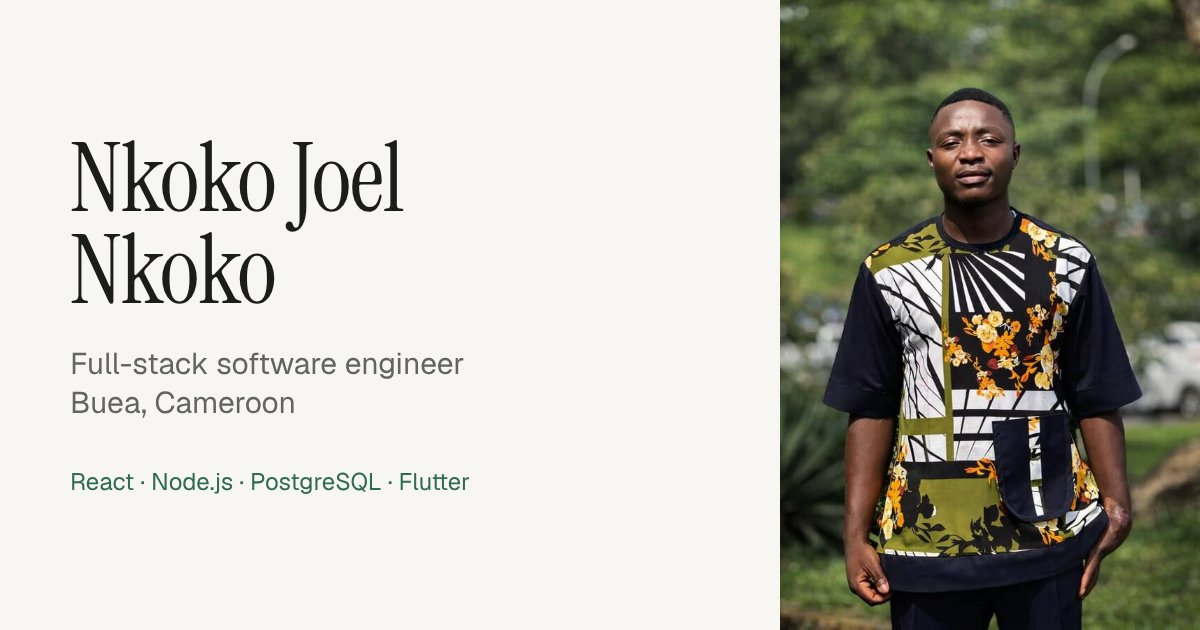
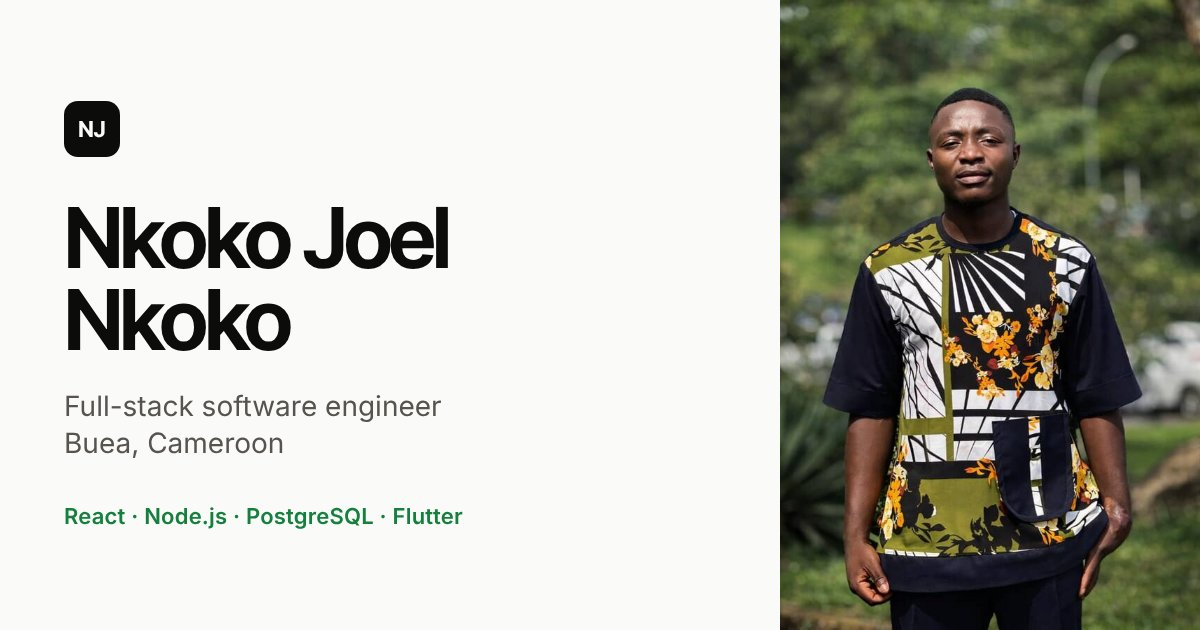
Restyle with Inter Tight and Inter for a modern professional look
- Bold, tight Inter Tight headings with Inter body text
- Neutral high-contrast colours in light and dark mode
- NJ monogram in the header, favicon and app icon
- Highlights row under the introduction (from the CV)
- Regenerated link-preview image in the new style

Claude-Session: https://claude.ai/code/session_01DLTudfJjVnqzGZH3kgXUeJ

Changed region(s): [[0.0308, 0.1508, 0.4008, 0.6635], [0.0308, 0.754, 0.4008, 0.8444], [0.0308, 0.6937, 0.2467, 0.7238]]

diff --git a/frontend/src/components/Header.tsx b/frontend/src/components/Header.tsx
@@ -40,9 +40,15 @@ export function Header() {
       }`}
     >
       <div className="mx-auto flex h-16 max-w-6xl items-center justify-between px-5 sm:px-8">
-        <a href="#top" className="font-serif text-2xl tracking-tight" onClick={() => setOpen(false)}>
-          {profile.shortName}
-          <span className="text-accent">.</span>
+        <a
+          href="#top"
+          className="flex items-center gap-2.5 font-display text-[15px] font-semibold tracking-tight"
+          onClick={() => setOpen(false)}
+        >
+          <span aria-hidden className="grid size-8 place-items-center rounded-lg bg-ink text-xs font-bold text-bg">
+            NJ
+          </span>
+          {profile.name}
         </a>
 
         <nav aria-label="Main" className="hidden items-center gap-1 md:flex">
@@ -51,7 +57,7 @@ export function Header() {
               key={l.id}
               href={`#${l.id}`}
               aria-current={active === l.id ? "true" : undefined}
-              className={`rounded-full px-4 py-2 text-sm transition-colors hover:text-ink ${
+              className={`rounded-full px-4 py-2 text-sm font-medium transition-colors hover:text-ink ${
                 active === l.id ? "text-ink" : "text-muted"
               }`}
             >
@@ -99,7 +105,7 @@ export function Header() {
                 <a
                   href={`#${l.id}`}
                   onClick={() => setOpen(false)}
-                  className="block border-b border-line py-4 font-serif text-3xl"
+                  className="block border-b border-line py-4 font-display text-2xl font-semibold tracking-tight"
                 >
                   {l.label}
                 </a>

diff --git a/frontend/src/index.css b/frontend/src/index.css
@@ -4,26 +4,26 @@
 
 /* Colours are CSS variables so light and dark mode swap in one place. */
 :root {
-  --bg: #f7f6f2;
+  --bg: #fafaf9;
   --surface: #ffffff;
-  --ink: #1b1d1a;
-  --muted: #62655f;
-  --line: #e3e1da;
-  --accent: #2f6b4f;
+  --ink: #0c0c0b;
+  --muted: #57534e;
+  --line: #e7e5e4;
+  --accent: #15803d;
   --accent-ink: #ffffff;
-  --accent-soft: #e4efe8;
+  --accent-soft: #e8f5ec;
   color-scheme: light;
 }
 
 [data-theme="dark"] {
-  --bg: #111311;
-  --surface: #181b18;
-  --ink: #ecede8;
-  --muted: #a1a59d;
-  --line: #2a2e2a;
-  --accent: #7cc39b;
-  --accent-ink: #0d1a12;
-  --accent-soft: #1d2b22;
+  --bg: #0a0a0a;
+  --surface: #121212;
+  --ink: #f2f2f0;
+  --muted: #a3a3a0;
+  --line: #262626;
+  --accent: #4ade80;
+  --accent-ink: #052e12;
+  --accent-soft: #11261a;
   color-scheme: dark;
 }
 
@@ -36,8 +36,8 @@
   --color-accent: var(--accent);
   --color-accent-ink: var(--accent-ink);
   --color-accent-soft: var(--accent-soft);
-  --font-sans: "Geist Variable", ui-sans-serif, system-ui, sans-serif;
-  --font-serif: "Instrument Serif", ui-serif, Georgia, serif;
+  --font-sans: "Inter Variable", ui-sans-serif, system-ui, sans-serif;
+  --font-display: "Inter Tight Variable", "Inter Variable", ui-sans-serif, system-ui, sans-serif;
 }
 
 @layer base {
@@ -51,7 +51,15 @@
     color: var(--ink);
     font-family: var(--font-sans);
     -webkit-font-smoothing: antialiased;
+    font-feature-settings: "cv11", "ss01";
     text-rendering: optimizeLegibility;
+  }
+  h1,
+  h2,
+  h3,
+  h4 {
+    font-family: var(--font-display);
+    text-wrap: balance;
   }
   ::selection {
     background: var(--accent);

diff --git a/frontend/src/components/Hero.tsx b/frontend/src/components/Hero.tsx
@@ -1,5 +1,5 @@
 import { ArrowRight, Download, MapPin } from "lucide-react";
-import { profile } from "../content";
+import { highlights, profile } from "../content";
 import { CV_FILE, fileUrl, imageSrcSet, imageUrl, PROFILE_PHOTO } from "../lib/media";
 import { SocialIcons } from "./social";
 
@@ -18,11 +18,11 @@ export function Hero() {
             </p>
           )}
 
-          <h1 className="font-serif text-[3.4rem] leading-[0.95] tracking-tight sm:text-7xl lg:text-8xl">
+          <h1 className="text-[2.9rem] font-semibold leading-[0.98] tracking-[-0.045em] sm:text-7xl lg:text-[5.4rem]">
             {profile.name}
           </h1>
 
-          <p className="mt-5 flex flex-wrap items-center gap-x-3 gap-y-1 text-lg text-ink">
+          <p className="mt-5 flex flex-wrap items-center gap-x-3 gap-y-1 text-lg font-medium text-ink">
             <span>{profile.role}</span>
             <span aria-hidden className="hidden text-line sm:inline">
               /
@@ -67,6 +67,15 @@ export function Hero() {
           />
         </div>
       </div>
+
+      <dl className="mt-16 grid grid-cols-2 gap-px overflow-hidden rounded-2xl border border-line bg-line sm:mt-20 lg:grid-cols-4">
+        {highlights.map((h) => (
+          <div key={h.label} className="bg-surface px-5 py-5 sm:px-6">
+            <dt className="text-sm text-muted">{h.label}</dt>
+            <dd className="mt-1 font-display text-2xl font-semibold tracking-tight sm:text-3xl">{h.value}</dd>
+          </div>
+        ))}
+      </dl>
     </section>
   );
 }

diff --git a/frontend/src/components/Experience.tsx b/frontend/src/components/Experience.tsx
@@ -11,7 +11,7 @@ function Timeline({ items }: { items: TimelineItem[] }) {
         >
           <p className="text-sm tabular-nums text-muted sm:pt-1">{item.period}</p>
           <div>
-            <h4 className="text-lg font-medium leading-snug">{item.title}</h4>
+            <h4 className="text-lg font-semibold leading-snug tracking-tight">{item.title}</h4>
             <p className="text-muted">
               {item.org}
               {item.place && <span> · {item.place}</span>}
@@ -38,16 +38,16 @@ export function Experience() {
     <Section id="experience" label="Experience" title="Where I've worked and studied">
       <div className="space-y-16">
         <div>
-          <h3 className="mb-4 font-serif text-3xl">Work</h3>
+          <h3 className="mb-4 text-xl font-semibold tracking-tight">Work</h3>
           <Timeline items={experience} />
         </div>
         <div className="grid gap-16 lg:grid-cols-2 lg:gap-12">
           <div>
-            <h3 className="mb-4 font-serif text-3xl">Education</h3>
+            <h3 className="mb-4 text-xl font-semibold tracking-tight">Education</h3>
             <Timeline items={education} />
           </div>
           <div>
-            <h3 className="mb-4 font-serif text-3xl">Awards & certificates</h3>
+            <h3 className="mb-4 text-xl font-semibold tracking-tight">Awards & certificates</h3>
             <Timeline items={achievements} />
           </div>
         </div>

diff --git a/frontend/src/components/Projects.tsx b/frontend/src/components/Projects.tsx
@@ -73,7 +73,7 @@ function ProjectLinks({ project }: { project: Project }) {
 function ProjectCard({ project, featured = false }: { project: Project; featured?: boolean }) {
   return (
     <article
-      className={`group overflow-hidden rounded-2xl border border-line bg-surface ${
+      className={`group overflow-hidden rounded-2xl border border-line bg-surface transition-[border-color,box-shadow] duration-300 hover:border-ink/20 hover:shadow-[0_8px_30px_-12px_rgb(0_0_0/0.15)] ${
         featured ? "lg:grid lg:grid-cols-[1.35fr_1fr]" : "flex flex-col"
       }`}
     >
@@ -90,8 +90,8 @@ function ProjectCard({ project, featured = false }: { project: Project; featured
             <span className="rounded-full border border-line px-2.5 py-1 text-muted">{project.status}</span>
           )}
         </div>
-        <h3 className="font-serif text-3xl tracking-tight sm:text-4xl">{project.title}</h3>
-        <p className="mt-1 text-ink">{project.tagline}</p>
+        <h3 className="text-2xl font-semibold tracking-[-0.02em] sm:text-3xl">{project.title}</h3>
+        <p className="mt-1.5 font-medium text-ink">{project.tagline}</p>
         <p className="mt-4 leading-relaxed text-muted">{project.description}</p>
 
         {project.highlights.length > 0 && (

diff --git a/frontend/src/components/Section.tsx b/frontend/src/components/Section.tsx
@@ -18,8 +18,8 @@ export function Section({
   return (
     <section id={id} aria-labelledby={`${id}-title`} className="border-t border-line py-20 sm:py-28">
       <div ref={ref} className="reveal mx-auto max-w-6xl px-5 sm:px-8">
-        <p className="mb-3 text-sm font-medium text-accent">{label}</p>
-        <h2 id={`${id}-title`} className="max-w-3xl font-serif text-4xl leading-[1.05] tracking-tight sm:text-5xl">
+        <p className="mb-4 text-xs font-semibold uppercase tracking-[0.16em] text-accent">{label}</p>
+        <h2 id={`${id}-title`} className="max-w-3xl text-3xl font-semibold leading-[1.1] tracking-[-0.03em] sm:text-5xl">
           {title}
         </h2>
         {intro && <p className="mt-5 max-w-2xl text-lg leading-relaxed text-muted">{intro}</p>}

diff --git a/frontend/src/components/Contact.tsx b/frontend/src/components/Contact.tsx
@@ -122,7 +122,7 @@ function ContactForm() {
         <span className="grid size-11 place-items-center rounded-full bg-accent-soft text-accent">
           <Check size={22} aria-hidden />
         </span>
-        <h3 className="mt-5 font-serif text-3xl">Thank you, your message is on its way.</h3>
+        <h3 className="mt-5 text-2xl font-semibold tracking-tight">Thank you, your message is on its way.</h3>
         <p className="mt-3 leading-relaxed text-muted">
           It has landed straight in my inbox. I usually reply within a day. For anything urgent, message me on{" "}
           <a href={contact.whatsapp} target="_blank" rel="noopener noreferrer" className="text-ink underline underline-offset-4">

diff --git a/frontend/index.html b/frontend/index.html
@@ -10,8 +10,8 @@
     />
     <meta name="author" content="Nkoko Joel Nkoko" />
     <link rel="canonical" href="%VITE_SITE_URL%/" />
-    <meta name="theme-color" content="#f7f6f2" media="(prefers-color-scheme: light)" />
-    <meta name="theme-color" content="#111311" media="(prefers-color-scheme: dark)" />
+    <meta name="theme-color" content="#fafaf9" media="(prefers-color-scheme: light)" />
+    <meta name="theme-color" content="#0a0a0a" media="(prefers-color-scheme: dark)" />
     <link rel="icon" href="/favicon.svg" type="image/svg+xml" />
     <link rel="apple-touch-icon" href="/apple-touch-icon.png" />
 

diff --git a/frontend/src/components/Footer.tsx b/frontend/src/components/Footer.tsx
@@ -7,7 +7,7 @@ export function Footer() {
     <footer className="border-t border-line">
       <div className="mx-auto flex max-w-6xl flex-col gap-6 px-5 py-10 sm:flex-row sm:items-center sm:justify-between sm:px-8">
         <div>
-          <p className="font-serif text-2xl">{profile.name}</p>
+          <p className="font-display text-lg font-semibold tracking-tight">{profile.name}</p>
           <p className="mt-1 text-sm text-muted">
             © {new Date().getFullYear()} · {profile.role} in {profile.location}
           </p>

diff --git a/frontend/src/content.ts b/frontend/src/content.ts
@@ -24,6 +24,14 @@ export const profile = {
   ],
 };
 
+/** Short facts shown under the introduction. Keep them true and checkable. */
+export const highlights = [
+  { value: "5+ years", label: "Writing code" },
+  { value: "2", label: "Software internships" },
+  { value: "Full-stack", label: "Web & mobile" },
+  { value: "Winner", label: "LIAH Code Battle 2025" },
+];
+
 export const contact = {
   email: "nkokomoukan@gmail.com",
   phone: "+237 654 801 108",

diff --git a/frontend/src/main.tsx b/frontend/src/main.tsx
@@ -1,5 +1,5 @@
-import "@fontsource-variable/geist";
-import "@fontsource/instrument-serif/400.css";
+import "@fontsource-variable/inter";
+import "@fontsource-variable/inter-tight";
 import { StrictMode } from "react";
 import { createRoot } from "react-dom/client";
 import App from "./App";
